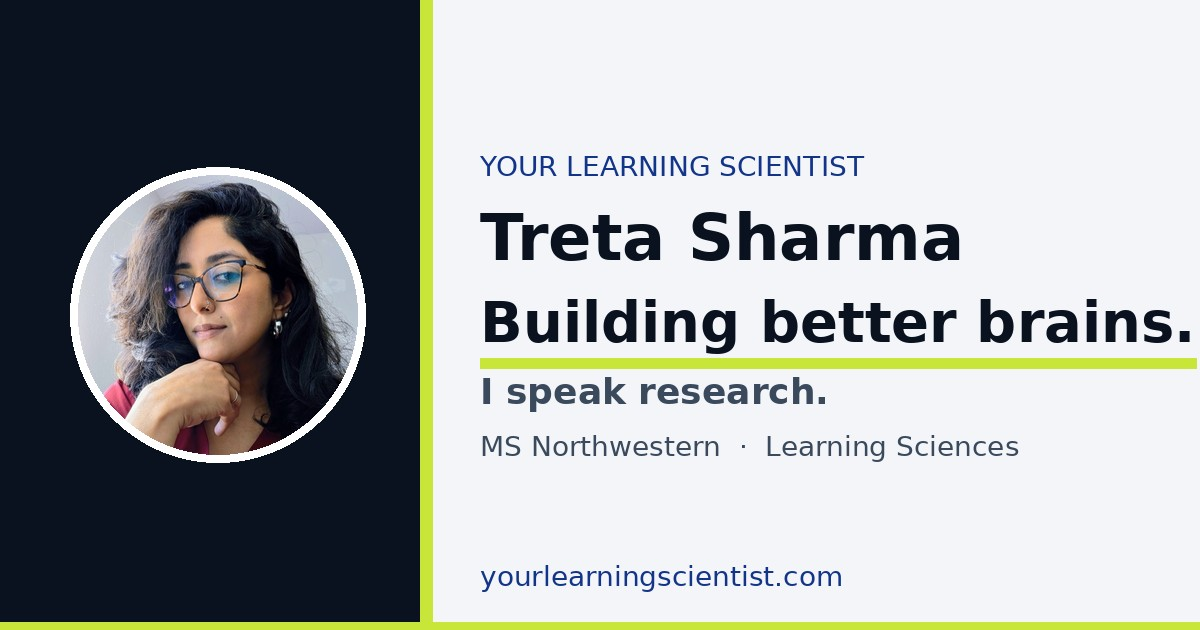
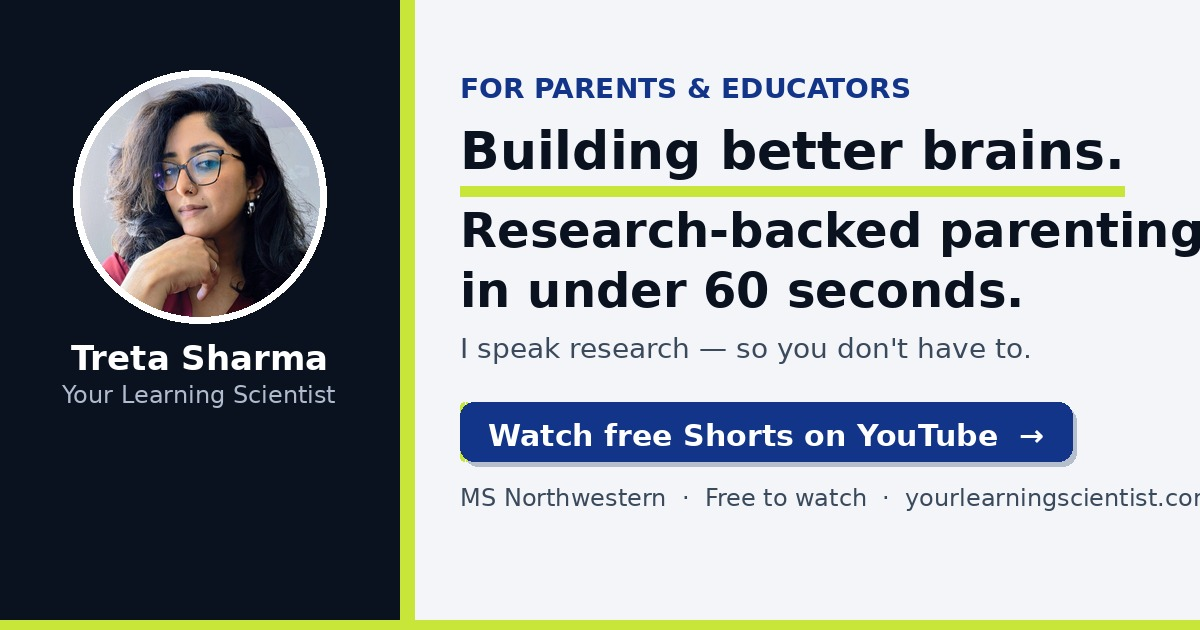
feat: make OG share image a clickable-looking CTA card
Rebuild the 1200×630 Open Graph image with a clear promise and a navy
button: "Watch free Shorts on YouTube →" plus free/credential cues so
social previews pull clicks, not just brand.

diff --git a/index.html b/index.html
@@ -34,14 +34,14 @@
   <meta property="og:image:type" content="image/jpeg" />
   <meta property="og:image:width" content="1200" />
   <meta property="og:image:height" content="630" />
-  <meta property="og:image:alt" content="Treta Sharma — Your Learning Scientist. Building better brains. I speak research." />
+  <meta property="og:image:alt" content="Building better brains. Research-backed parenting in under 60 seconds. Watch free Shorts on YouTube — Treta Sharma, Your Learning Scientist." />
 
   <!-- Twitter / X -->
   <meta name="twitter:card" content="summary_large_image" />
   <meta name="twitter:title" content="Your Learning Scientist — Treta Sharma" />
-  <meta name="twitter:description" content="Building better brains. I speak research. Research-backed parenting and learning science from Northwestern MS Treta Sharma." />
+  <meta name="twitter:description" content="Building better brains. Research-backed parenting in under 60 seconds. Watch free Shorts — Treta Sharma, MS Northwestern." />
   <meta name="twitter:image" content="https://yourlearningscientist.com/assets/images/og-image.jpg" />
-  <meta name="twitter:image:alt" content="Treta Sharma — Your Learning Scientist. Building better brains. I speak research." />
+  <meta name="twitter:image:alt" content="Building better brains. Research-backed parenting in under 60 seconds. Watch free Shorts on YouTube — Treta Sharma, Your Learning Scientist." />
   <meta name="twitter:url" content="https://yourlearningscientist.com/" />
 
   <!-- App / mobile -->
